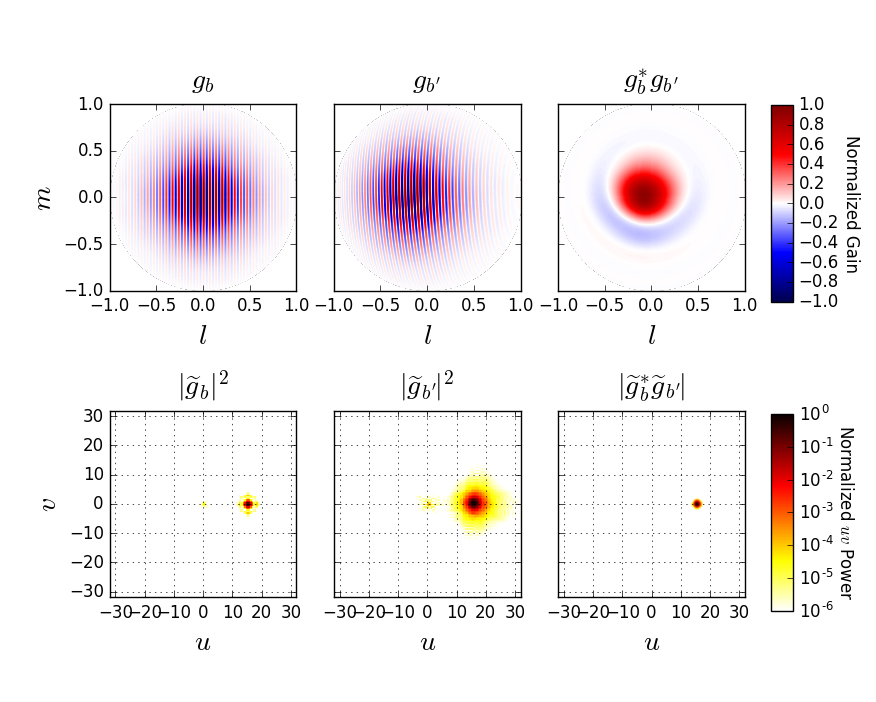
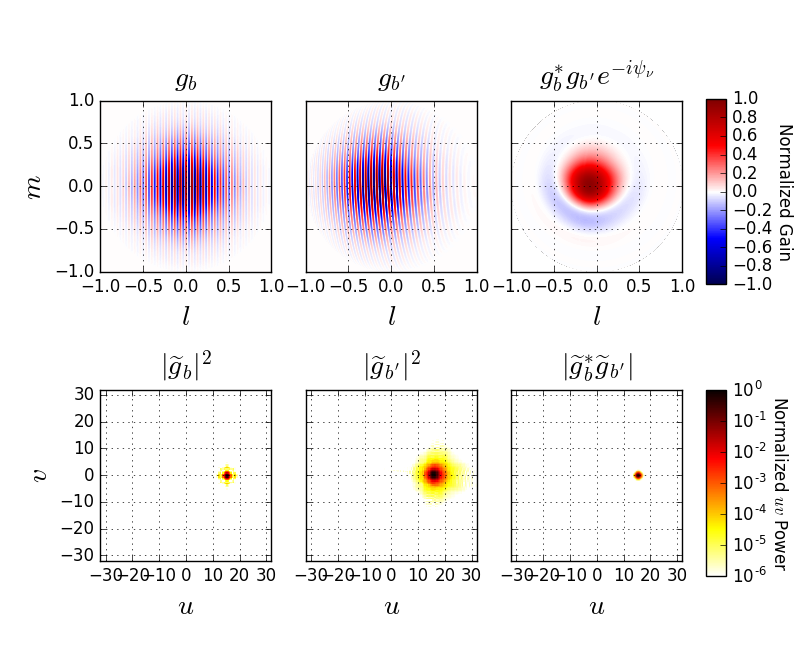
save

diff --git a/Rotation paper/draft_working.tex b/Rotation paper/draft_working.tex
@@ -19,30 +19,31 @@
 
 \begin{document}
 
-\title{Unlocking Sensitivity for Visibility-based Power Spectrum Estimators of the 21\,cm Reionization Signal}
+\title{Unlocking Sensitivity for Visibility-based Estimators of the 21\,cm Reionization Power Spectrum}
 
 %\maketitle
 \author{
-Yunfan Gerry Zhang \altaffilmark{1},
-Adrian Liu \altaffilmark{1, 2},
-Aaron R. Parsons\altaffilmark{1, 2}
+Yunfan Gerry Zhang\altaffilmark{1},
+Adrian Liu\altaffilmark{1,2,3},
+Aaron R. Parsons\altaffilmark{1,2}
 }
-
+\email{yunfanz@berkeley.edu}
 \altaffiltext{1}{Astronomy Dept., U. California, Berkeley, CA}
 \altaffiltext{2}{Radio Astronomy Lab., U. California, Berkeley, CA}
+\altaffiltext{3}{Hubble Fellow}
 
 \begin{abstract}
-Radio interferometers seeking to measure the cosmological 21\,cm power spectrum require high sensitivity. Several modern low-frequency interferometers feature antennas placed on regular grid to maximize redundancy. Current visibility-based power spectrum pipelines, though shown to ease control of systematics, lack the ability to make use of partial redundancy. We introduce a method to leverage partial redundancy in such power spectrum pipelines for drift-scan arrays. Our method cross-multiplies baseline pairs at a time lag, and quantifies the sensitivity contributions of each pair of baselines. 
+Radio interferometers designed to measure the cosmological 21\,cm power spectrum require high sensitivity. Several modern low-frequency interferometers feature drift-scan antennas placed on regular grid to maximize the number of instantaneously coherent (redundant) measurements. However, even for such maximum-redundancy arrays, significant sensitivity comes through partial coherence between baselines. Current visibility-based power spectrum pipelines, though shown to ease control of systematics, lack the ability to make use of partial redundancy. We introduce a method to leverage partial redundancy in such power spectrum pipelines for drift-scan arrays. Our method cross-multiplies baseline pairs at a time lag, and quantifies the sensitivity contributions of each pair of baselines. 
 Using the configurations and beams of the 128-element Donald C. Backer Precision Array for Probing the Epoch of Reionization (PAPER-128), and four staged deployments of the Hydrogen Epoch of Reionization Array (HERA), we illustrate how our method applies to different arrays and predict the sensitivity improvements associated with each baseline pairs. We show that for upcoming arrays with increasing number of antennas, partial redundancy will be of increasing importance in unlocking full sensitivities of the arrays. 
 \end{abstract}
 
 \section{Introduction}
 
 The epoch of reionization represents the last key
-stage of our Universe's early evolution. Study of this event stands at
+stage of our Universe's early evolution. The study of this event stands at
 the intersection of cosmology and astrophysics. Understanding this
 event not only serves as a scientific goal
-of its own, but also as a gateway to crucial information
+of its own, but also as a gateway to information
 regarding fundamental physics of inflation, neutrino mass, and the phenomenology
 of the first stars and galaxies (e.g. \citealt{LiuOpticalDepth, Liu2016b, Mao2008, DEw21cm, Bull2015, Oyama20131186}). 
 
@@ -95,7 +96,7 @@ respected time series are shifted with respect to one another by some time offse
 \begin{figure}[H]
 \includegraphics[width=\linewidth]{antconfig}
 
-\caption{The PAPER128 layout. Each dot corresponds to the location of
+\caption{The PAPER-128 layout. Each dot corresponds to the location of
 an antenna. The top panel shows the antenna positions drawn to scale;
 the bottom panel show the antenna labels and distances of the 112-element grid, in other words excluding the outrigger antennas.
 The numbering of the antennas in the bottom panel are original labels
@@ -134,7 +135,7 @@ Radio interferometric observations are often described in the coordinates $uvw$,
 \]
 where $\boldsymbol{b}$ is the baseline vector in Cartesian coordinates, with first and second coordinates pointing East and North, respectively, and  $\nu$ is the frequency of observation, and $c$ is the speed of light. 
 Relative to a phase center on the sky, each baseline maps to a point in $uvw$ space. As the Earth rotates, the points trace out tracks in the $uvw$ space. 
-We show in Fig. \ref{fig:Tracks} $uvw$ tracks of the three PAPER128 baselines colored in Fig. \ref{fig:AntPos}, projected onto the $uv$ and $vw$ planes. The tracks are traced over 12 sidereal hours, at 0.15\,GHz, relative to a phase center that pdrifts from zenith. 
+We show in Fig. \ref{fig:Tracks} $uvw$ tracks of the three PAPER-128 baselines colored in Fig. \ref{fig:AntPos}, projected onto the $uv$ and $vw$ planes. The tracks are traced over 12 sidereal hours, at 0.15\,GHz, relative to a phase center that pdrifts from zenith. 
 
 
 \begin{figure}[h]
@@ -340,7 +341,7 @@ To linear order in $\nu$, $\psi_\nu$ cancels the decoherence due to the two visi
 \]
 where $\Delta\tau$ is a shift in delay corresponding to the phase center movement. 
 
-In Fig. \ref{fig:phi_nu} we show the phases of $\Theta_\nu$ at the optimal time offset or, in other words, when $|\Theta_\nu|$ is maximized. The phases are shown for the baseline pair \{2,0:2,1\} of PAPER128. The drift-scan phase dependence is compared with that of the same baseline with hypothetical tracking-elements (Eq. \eqref{eq:Thetanu} and Eq. \eqref{eq:Thetanu_tracking}). In the drift-scan case, we indeed see a linear relation corresponding to a delay of $\Delta\tau\approx15.7$\,ns. In the tracking case, since the phase center is fixed to the sky, only second order effects are observed. The origin of the second order effects can be seen as due to the $w$-term, or more precisely the fact that $uvw$ tracks do not cross when their two-dimensional projections do. We refer the reader to Appendix \ref{sec:appA} for further explanation. In both cases, the full effects are encapsulated in the phase of $\Theta_\nu$ and can be thus determined empirically without any additional computation. 
+In Fig. \ref{fig:phi_nu} we show the phases of $\Theta_\nu$ at the optimal time offset or, in other words, when $|\Theta_\nu|$ is maximized. The phases are shown for the baseline pair \{2,0:2,1\} of PAPER-128. The drift-scan phase dependence is compared with that of the same baseline with hypothetical tracking-elements (Eq. \eqref{eq:Thetanu} and Eq. \eqref{eq:Thetanu_tracking}). In the drift-scan case, we indeed see a linear relation corresponding to a delay of $\Delta\tau\approx15.7$\,ns. In the tracking case, since the phase center is fixed to the sky, only second order effects are observed. The origin of the second order effects can be seen as due to the $w$-term, or more precisely the fact that $uvw$ tracks do not cross when their two-dimensional projections do. We refer the reader to Appendix \ref{sec:appA} for further explanation. In both cases, the full effects are encapsulated in the phase of $\Theta_\nu$ and can be thus determined empirically without any additional computation. 
 
 \begin{figure}[H]
 \includegraphics[width=1\linewidth]{phi_nu}
@@ -355,9 +356,9 @@ To illustrate the effect of rephasing, we compare in Fig. \ref{fig:freqdiff} rea
 We see from Fig. \ref{fig:freqdiff} that although the amplitude of correlations match up for all time offsets, the phase would only locally match. The need for rephasing can thus be understood as a symptom of the underlying spatial decoherence; coherence at the phase center would not extend to the entire beam pattern (see Section \ref{sec:visual}). Thus while integrating over frequencies and sky-direction in Eq. \eqref{eq:Theta} there are necessarily sky-directions that do not add coherently. This decoherence across the beam pattern cannot be removed and plays a fundamental role in determining how much sensitivity one can recover from nearly equivalent baselines. 
 
 \begin{figure}[H]
-\includegraphics[width=1.1\linewidth]{rephs_cm}
+\includegraphics[width=1.1\linewidth]{rephs_rb}
 
-\caption{Comparisons of the peak phases of two different frequencies. Specifically shown are the real parts of $\Theta_{\nu}$. First and third panels shows equivalent baselines, second and fourth show a pair of nearly equivalents. The top two panels have zero phase shift ($\psi_{\nu}=0$), and the bottom two are rephased to a time offset of 0.0325 sidereal days. The first and last panels thus show a coherently rephased series that would add constructively at the respective peaks. }
+\caption{Comparisons of the peak phases of two different frequencies. Specifically shown are the real parts of $\Theta_{\nu}$. First and third panels shows equivalent baselines, second and fourth show a pair of nearly equivalents. The top two panels have zero phase shift ($\psi_{\nu}=0$), and the bottom two are rephased to a time offset of 0.78 hours. The first and last panels thus show a coherently rephased series that would add constructively at the respective peaks. }
 \label{fig:freqdiff}
 \end{figure}
 
@@ -369,7 +370,7 @@ In this section we delve into visualizing and testing our method, and explore se
 So far for clarity and generality we have avoided the traditional formulation of radio astronomy in terms of the $uv$-plane. To gain some visual intuition of the formalism in Section \ref{sec:method}, we show explicit beam fringe patterns of the two baselines and their interactions. For this section, we relax into the flat sky approximation so that $(l,m,\sqrt{1-l^2-m^2})\equiv\hat{s}$ and examine a single frequency of $150$\,MHz. 
 
 At the time offset of maximum redundancy, we expect two baselines to have to same fringe pattern in both frequency and phase. Due to the time delay, however, the beam centers would be slightly shifted with respect to each other. In the top panels of Fig. \ref{fig:beamfringe}, we show the real parts of peak-normalized beam-fringe patterns. The top left and middle panels show the beam-fringe
-patterns for the baseline classes \{2,0\} and \{2,1\}, offset by 0.0325 sidereal days. More specifically, displayed are the real parts of $g_b\equiv B(\hat{\boldsymbol{s}},\nu)\exp\left[-i2\pi\frac{\nu}{c}\hat{\boldsymbol{s}}\cdot\boldsymbol{b}\right]$ and $g_{b'}\equiv B(\boldsymbol{\Gamma}\hat{\boldsymbol{s}},\nu)\exp\left[-i2\pi\frac{\nu}{c}\boldsymbol{\Gamma}\hat{\boldsymbol{s}}\cdot\boldsymbol{b'}\right]$, respectively. The top right panel show their conjugate product $g_{b}^{*}g_{b'} = B^{*}(\hat{\boldsymbol{s}},\nu)B(\boldsymbol{\Gamma}\hat{\boldsymbol{s}},\nu)\exp\left[i2\pi\frac{\nu}{c}\left(\hat{\boldsymbol{s}}\cdot\boldsymbol{b}-\boldsymbol{\Gamma}\hat{\boldsymbol{s}}\cdot\boldsymbol{b'}\right)-i\psi_{\nu}\right]$, where we have chosen global phase $\psi_{\nu}$ such that the peak of the conjugate product is real. The product of the beam fringe patterns in top right shows that the fringes
+patterns for the baseline classes \{2,0\} and \{2,1\}, offset by 0.78 hours. More specifically, displayed are the real parts of $g_b\equiv B(\hat{\boldsymbol{s}},\nu)\exp\left[-i2\pi\frac{\nu}{c}\hat{\boldsymbol{s}}\cdot\boldsymbol{b}\right]$ and $g_{b'}\equiv B(\boldsymbol{\Gamma}\hat{\boldsymbol{s}},\nu)\exp\left[-i2\pi\frac{\nu}{c}\boldsymbol{\Gamma}\hat{\boldsymbol{s}}\cdot\boldsymbol{b'}\right]$, respectively. The top right panel show their conjugate product $g_{b}^{*}g_{b'}e^{-i\psi_\nu} = B^{*}(\hat{\boldsymbol{s}},\nu)B(\boldsymbol{\Gamma}\hat{\boldsymbol{s}},\nu)\exp\left[i2\pi\frac{\nu}{c}\left(\hat{\boldsymbol{s}}\cdot\boldsymbol{b}-\boldsymbol{\Gamma}\hat{\boldsymbol{s}}\cdot\boldsymbol{b'}\right)-i\psi_{\nu}\right]$, where we have chosen global phase $\psi_{\nu}$ such that the peak of the conjugate product is real. The product of the beam fringe patterns in top right shows that the fringes
  cancel out as we expect. Comparing with Eq. \eqref{eq:Thetanu}, we see that $\Theta_\nu=\int d\Omega g_{b}^{*}g_{b'}$ is the sum over the image shown in the top right panel. Thus we show that at the optimal time offset the fringe patterns of the two baselines cancel out, leading to a substantial weight $\Theta_\nu$. The frequency-summed weight $\Theta$ is constructed with rephasing as described in Section \ref{sec:rephs} so that the conjugate product (top right panel) for different frequencies align in phase. 
  
 Similarly, we show the correlation of the two baselines in terms of their $uv$ beam spread overlap. The bottom left and middle panels are (peak-normalized) instantaneous $uv$ coverage of two baselines ($\widetilde{g}_{b}$ and $\widetilde{g}_{b'}$) while the bottom right panel is their product. We see from the bottom right panel that the cross-multiplied baselines recover power concentrated at $u\approx15$. The product of the $uv$ beams spread shown in the bottom right panel should not be confused with the Fourier transform of the beam-fringe conjugate product shown in the top right panel. 
@@ -606,7 +607,10 @@ Current visibility-based power spectrum pipelines have the advantage of easy-to-
 One benefit of delay-transform based power spectrum estimation is the ability to isolation foreground in Fourier space. We show that our proposed estimator does not lead to extra foreground leakage into the EoR window. We then apply our estimator to a variety array configurations. We show that for different configurations of PAPER and HERA, the incorporation of partial redundancy accounts for $20\%$ to $60\%$ of the array's sensitivity. The proposed power spectrum estimator retains benefits of delay-transform techniques for isolating foregrounds and avoiding systematics and enables one to unlock the full sensitivity of a redundant radio interferometer while simultaneously enjoying the benefits of delay-transform techniques for isolating foregrounds and avoiding systematics. 
 
 
-\pagebreak
+\acknowledgments
+
+The authors thank Zaki Ali, Carina Cheng, Dave DeBoer, and Miguel Morales for helpful discussions. This research was completed as part of the University of California Cosmic Dawn Initiative, with support from the University of California Office of the President Multicampus Research Programs and Initiative through award MR-15-328388. Additional support was provided by NSF AST grants 1129258 and 1636646. AL acknowledges support for this work by NASA through Hubble Fellowship grant \#HST-HF2-51363.001-A awarded by the Space Telescope Science Institute, which is operated by the Association of Universities for Research in Astronomy, Inc., for NASA, under contract NAS5-26555.
+
 
 
 
